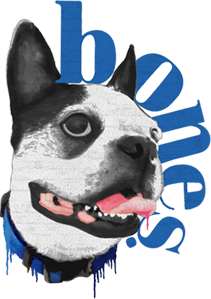
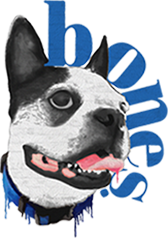
pull api data to events page

diff --git a/client/src/components/NaviBar/index.js b/client/src/components/NaviBar/index.js
@@ -1,43 +1,50 @@
 import React from 'react';
-import Logo from "../../assets/bones_final_large.png";
+import Logo from "../../assets/bones_higer_res.png";
 import BrickWall from "../../assets/brick_wall_copy.jpg";
 import FadeIn from 'react-fade-in';
-const mystyle = {
+const bgStyle = {
     color: "white",
     backgroundImage: `url(${BrickWall})`,
-    boxShadow: "5px 10px 8px rgb(50, 50, 50, 0.2)"
+    boxShadow: "3px 3px 8px rgb(50, 50, 50, 0.4)",
+    height: `12rem`,
+};
+const style = {
+    backgroundColor: `rgba(255, 255, 255, 0.7)`,
+    boxShadow: "1px 1px 8px 2px rgb(255, 255, 255)",
+
 };
 
+const logoStyle = {
+    position: `absolute`,
+    top: `16px`,
+    left: `45px`
+}
 export default function NaviBar() {
+    return (<FadeIn>
+        <div style={bgStyle}>
+            <ul style={style} className="nav justify-content-end pt-2" id="navItems">
+                <li className="nav-item">
+                    <a className="nav-link text-body" href="/" >Home</a>
+                </li>
+                <li className="nav-item">
+                    <a className="nav-link text-body" href="/login">Login</a>
+                </li>
+                <li className="nav-item">
+                    <a className="nav-link text-body" href="/signin">Signup</a>
+                </li>
+                <li className="nav-item">
+                    <a className="nav-link text-body" href="/favorites">Favorites</a>
+                </li>
+                <li className="nav-item">
+                    <a className="nav-link text-body" href="/addevent">Add Event</a>
+                </li>
+                <li className="nav-item mr-5">
+                    <a className="nav-link text-body" href="/userprofile">User Profile</a>
+                </li>
+            </ul>
+            <img src={Logo} alt="bones_logo" style={logoStyle} />
+        </div>
+    </FadeIn >
+    )
 
-    return (<div>
-                <ul className="nav justify-content-end" id="navItems">
-                        <li className="nav-item">
-                            <a className="nav-link" href="/">Home</a>
-                        </li>
-                        <li className="nav-item">
-                            <a className="nav-link" href="/login">Login</a>
-                        </li>
-                        <li className="nav-item">
-                            <a className="nav-link" href="/signin">Signup</a>
-                        </li>
-                        <li className="nav-item">
-                            <a className="nav-link" href="/favorites">Favorites</a>
-                        </li>
-                        <li className="nav-item">
-                            <a className="nav-link" href="/addevent">Add Event</a>
-                        </li>
-                        <li className="nav-item">
-                            <a className="nav-link" href="/userprofile">User Profile</a>
-                        </li>
-                </ul>
-                <FadeIn>
-                    <nav className="navbar" style={mystyle}>
-                        <img src={Logo} alt="bones_logo" className="my-2 ml-3" ></img>
-                        <span className="navbar-brand mx-auto">Welcome</span>
-                    </nav>
-                </FadeIn >
-            </div>
-        )
-
-    }
+}

diff --git a/client/public/index.html b/client/public/index.html
@@ -1,19 +1,23 @@
 <!DOCTYPE html>
 <html lang="en">
-  <head>
-    <meta charset="utf-8" />
-    <link rel="icon" href="%PUBLIC_URL%/bone.ico" />
 
-    <meta name="viewport" content="width=device-width, initial-scale=1" />
-    <meta name="theme-color" content="#000000" />
-    <meta name="description" content="Bones, NYC jazz events" />
-    <link rel="apple-touch-icon" href="%PUBLIC_URL%/bones192.png" />
-    <!--
+<head>
+  <meta charset="utf-8" />
+  <link rel="icon" href="%PUBLIC_URL%/bone.ico" />
+
+  <meta name="viewport" content="width=device-width, initial-scale=1" />
+  <meta name="theme-color" content="#000000" />
+  <meta name="description" content="Bones, NYC jazz events" />
+  <link rel="apple-touch-icon" href="%PUBLIC_URL%/bones192.png" />
+  <link
+    href="https://fonts.googleapis.com/css2?family=Covered+By+Your+Grace&family=Fredericka+the+Great&family=Gloria+Hallelujah&family=Montserrat:wght@400&family=Neucha&family=Rock+Salt&family=Special+Elite&display=swap"
+    rel="stylesheet">
+  <!--
       manifest.json provides metadata used when your web app is installed on a
       user's mobile device or desktop. See https://developers.google.com/web/fundamentals/web-app-manifest/
     -->
-    <link rel="manifest" href="%PUBLIC_URL%/manifest.json" />
-    <!--
+  <link rel="manifest" href="%PUBLIC_URL%/manifest.json" />
+  <!--
       Notice the use of %PUBLIC_URL% in the tags above.
       It will be replaced with the URL of the `public` folder during the build.
       Only files inside the `public` folder can be referenced from the HTML.
@@ -22,14 +26,14 @@
       work correctly both with client-side routing and a non-root public URL.
       Learn how to configure a non-root public URL by running `npm run build`.
     -->
-    <title>Bones || Jazz NYC</title>
-  </head>
+  <title>Bones || Jazz NYC</title>
+</head>
 
-  <body>
-    <noscript>You need to enable JavaScript to run this app.</noscript>
-    <div id="root"></div>
+<body>
+  <noscript>You need to enable JavaScript to run this app.</noscript>
+  <div style="font-family: 'Montserrat', sans-serif" id="root"></div>
 
-    <!--
+  <!--
       This HTML file is a template.
       If you open it directly in the browser, you will see an empty page.
 
@@ -39,5 +43,6 @@
       To begin the development, run `npm start` or `yarn start`.
       To create a production bundle, use `npm run build` or `yarn build`.
     -->
-  </body>
+</body>
+
 </html>

diff --git a/client/src/components/EventsPage/index.js b/client/src/components/EventsPage/index.js
@@ -1,23 +1,41 @@
-import React from 'react';
+import React, { useState, useEffect } from 'react';
+import Calendar from "../Calendar"
+import Event from "../Event"
+import axios from "axios"
+// import API from "../../utils/API"
 
-export default class EventsPage extends React.Component {
-    render() {
-        const mystyle = {
-            color: "#1f60a7",
-            backgroundColor: `#faf3f0`,
-            height: "100vh",
-            display: "flex",
-            justifyContent: "center",
-            paddingTop: "5rem"
+export default function EventsPage() {
+    const mystyle = {
+        paddingTop: "5rem"
+    };
 
-        };
+    const [events, setEvent] = useState([])
 
-        return (
-            <div style={mystyle}>
+    useEffect(() => {
+        axios.get("/api/event").then((eventsList) => {
+            console.log(eventsList.data)
+            setEvent(eventsList.data)
+        })
+    }, [])
 
-                <h1>TEST</h1>
+    // API.getEvent().then(function (obj) {
+    //     setEvent(obj.data);
+    // })
 
-            </div>
-        );
-    }
+    return (
+        <div className="mx-auto d-flex flex-column" style={mystyle}>
+            <Calendar />
+            {events.map((event, index) =>
+                <Event
+                    key={event._id}
+                    id={index}
+                    date={event.date}
+                    venueName={event.venueName}
+                    address={event.address}
+                    startTime={event.startTime}
+                    eventName={event.eventName}
+                    cover={event.cover}
+                    sets={event.sets} />)}
+        </div>
+    );
 }

diff --git a/client/src/utils/API.js b/client/src/utils/API.js
@@ -1,19 +1,20 @@
 import axios from "axios";
 
 export default {
-// Find user for authentication - username must be a unique value
-  getUser: function(userData) {
+  // Find user for authentication - username must be a unique value
+  getUser: function (userData) {
     console.log("The query URL = /api/user/" + userData.username);
     return axios.get("/api/user/" + userData.username);
   },
+
   // Saves a new user to the database
-  saveUser: function(userInfo) {
+  saveUser: function (userInfo) {
     return axios.post("/api/signup", userInfo);
   },
-    // Deletes the user with the given username
-    // Not sure if this is needed, since there is no delete
-    // button on the UserProfilePage at the moment
-  deleteUser: function(userName) {
+  // Deletes the user with the given username
+  // Not sure if this is needed, since there is no delete
+  // button on the UserProfilePage at the moment
+  deleteUser: function (userName) {
     return axios.delete("/api/user/" + userName);
   },
 
@@ -21,5 +22,5 @@ export default {
   saveEvent: function (savedEvent) {
     console.log("In API.js saveEvent");
     return axios.post("/api/event", savedEvent);
-}
+  }
 };

diff --git a/client/src/components/Event/index.js b/client/src/components/Event/index.js
@@ -2,16 +2,17 @@ import React from "react";
 
 function Event(props) {
     return (
-        <div>
+        <div className="mx-auto">
+            <h1>Events goes here</h1>
             <div className="row">
                 <div className="col"><h2>{props.date}: {props.eventName} at {props.venueName}</h2>
-                <h3>{props.startTime} / {props.address} / {props.cover}</h3></div>
+                    <h3>{props.startTime} / {props.address} / {props.cover}</h3></div>
             </div>
             <div className="row">
                 <div className="col"><ul>{props.sets.map(set => (
                     <li>
                         <h1>{set.startTime}</h1>
-                        <h3>{set.artists.join(", ")}</h3>
+                        <h3>{set.artists}</h3>
                     </li>
                 ))}
                 </ul></div>

diff --git a/client/src/pages/AddEvent.js b/client/src/pages/AddEvent.js
@@ -116,14 +116,14 @@ function AddEvent() {
                     <Col size="12">
                         <br></br>
                         <Row>
-                        <div>
-                            <button type="submit" className="submitBtn btn btn-primary" onClick={handleFormSubmit}>
-                                Submit
+                            <div>
+                                <button type="submit" className="submitBtn btn btn-primary" onClick={handleFormSubmit}>
+                                    Submit
                              </button>
-                        </div>
+                            </div>
                         </Row>
                     </Col>
-                    
+
                 </Row>
                 <br></br>
             </Container>

diff --git a/client/src/components/EventForm/index.js b/client/src/components/EventForm/index.js
@@ -2,7 +2,7 @@ import React from 'react';
 import Container from "../Container";
 import Row from "../Row";
 import Col from "../Col";
-import { CalendarPlusFill, CalendarMinusFill, PlusCircleFill } from "react-bootstrap-icons";
+// import { CalendarPlusFill, CalendarMinusFill, PlusCircleFill } from "react-bootstrap-icons";
 import "./style.css"
 
 export default function EventForm(props) {

diff --git a/client/src/components/Calendar/index.js b/client/src/components/Calendar/index.js
@@ -1,0 +1,12 @@
+import React from 'react';
+
+
+export default function Calendar() {
+
+    return (
+        <div className="input-group mt-3">
+            <input type="date" className="form-control col-5 mx-auto" aria-label="Sizing example input" aria-describedby="inputGroup-sizing-default" />
+        </div>
+    )
+}
+

diff --git a/client/src/components/FavoritesPage/index.js b/client/src/components/FavoritesPage/index.js
@@ -9,7 +9,7 @@ export default function FavoritesPage() {
 
     let favorites = [];
     let results = [];
-    
+
     return (
         <div className="container">
             <div className="row">
